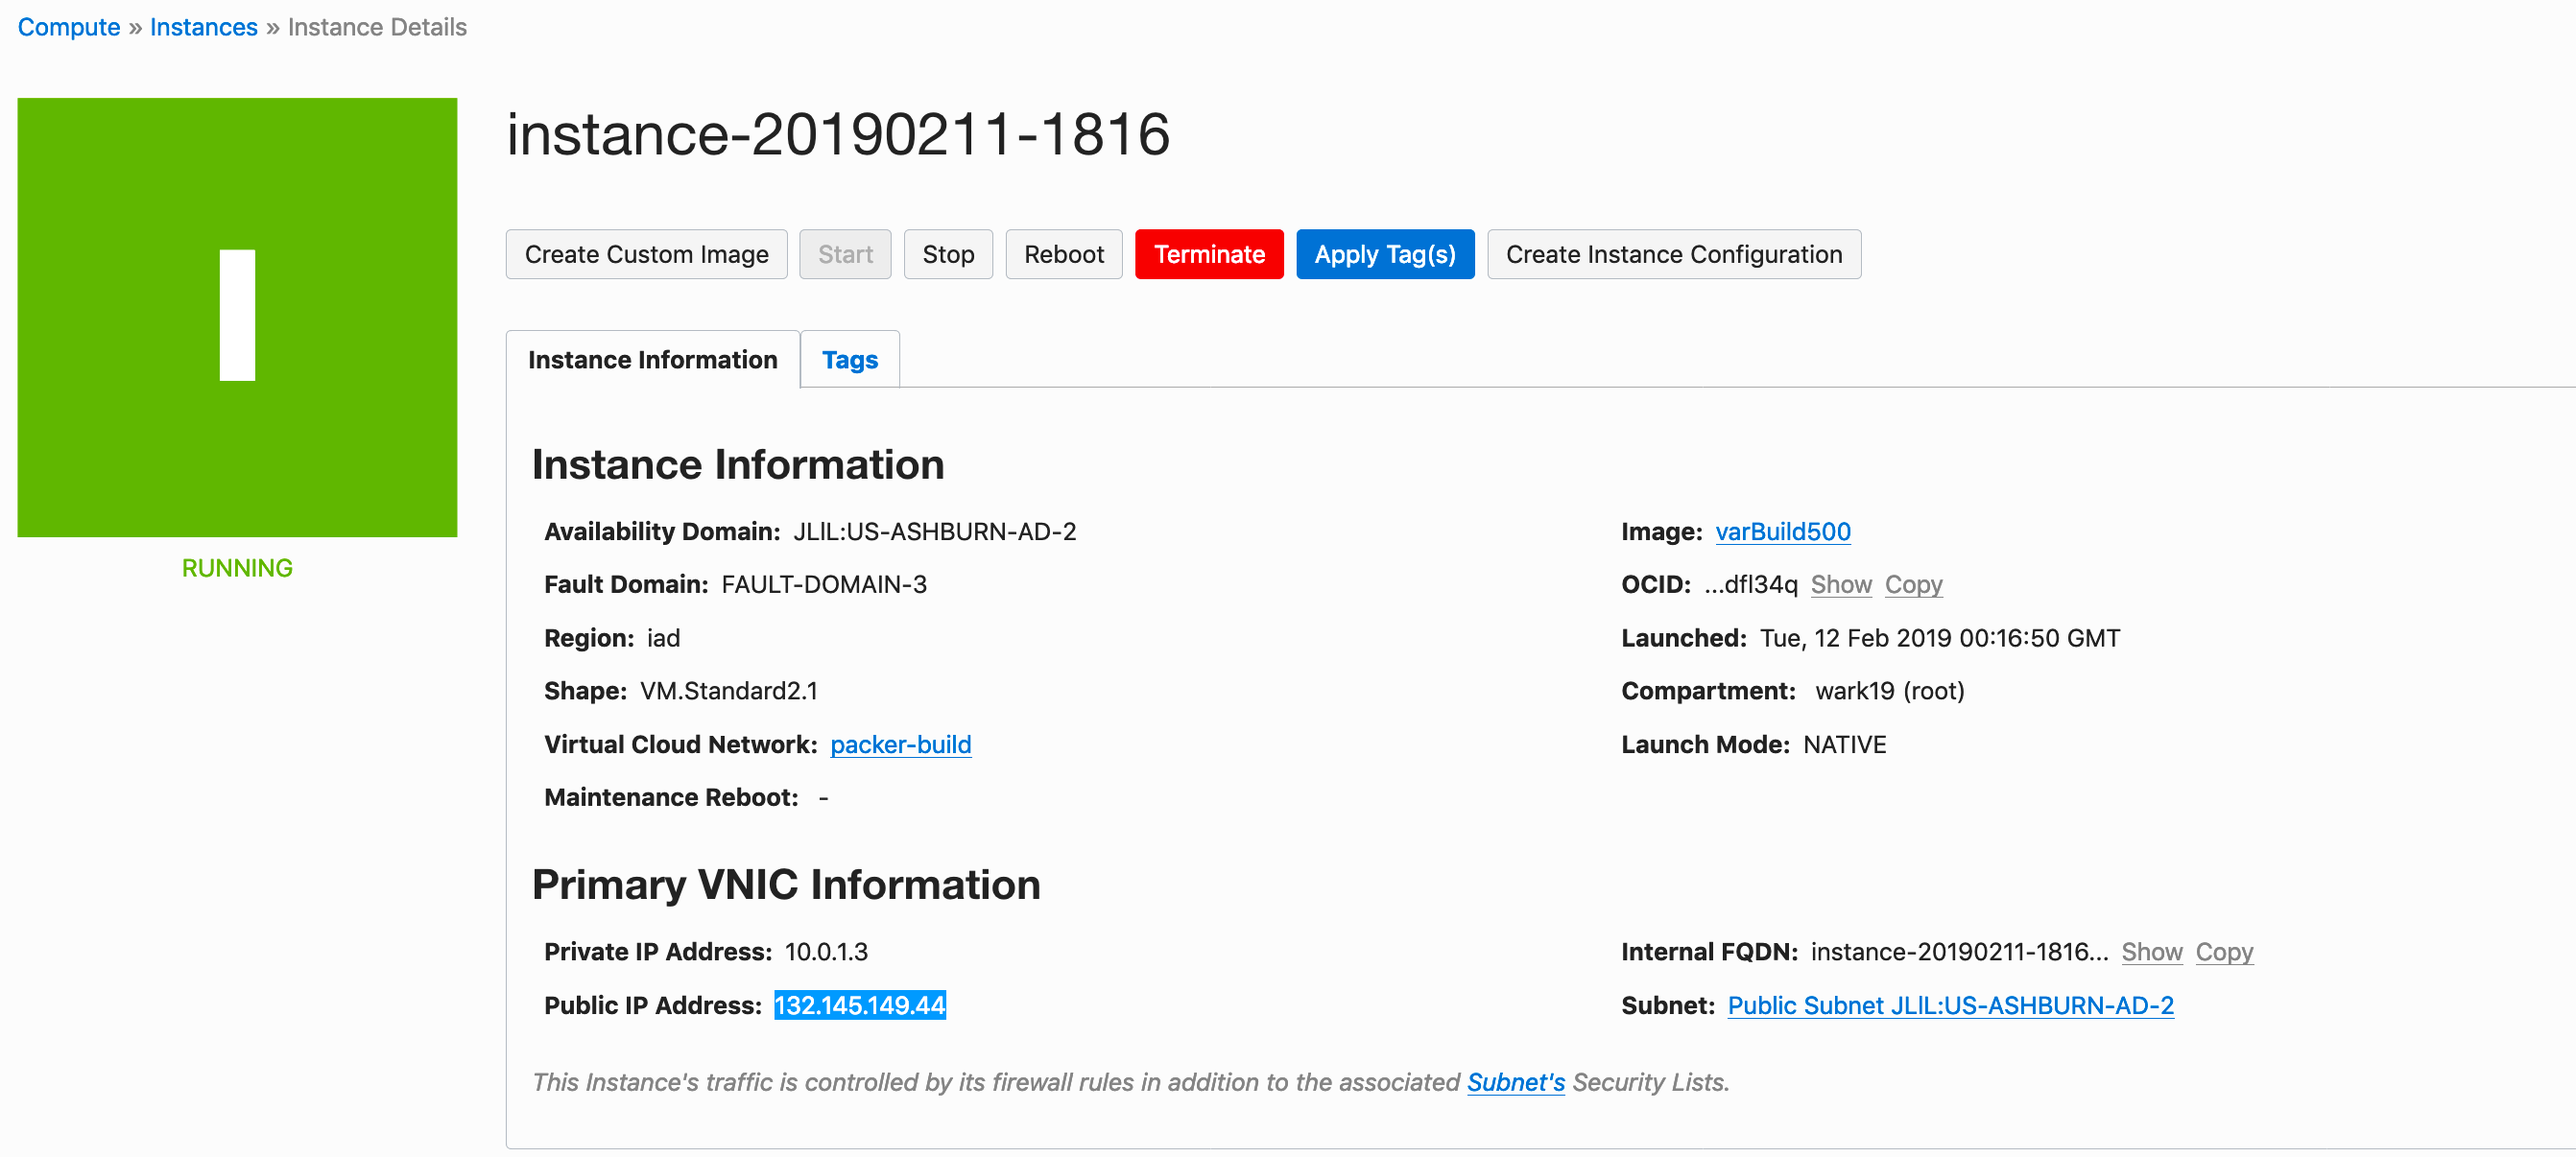
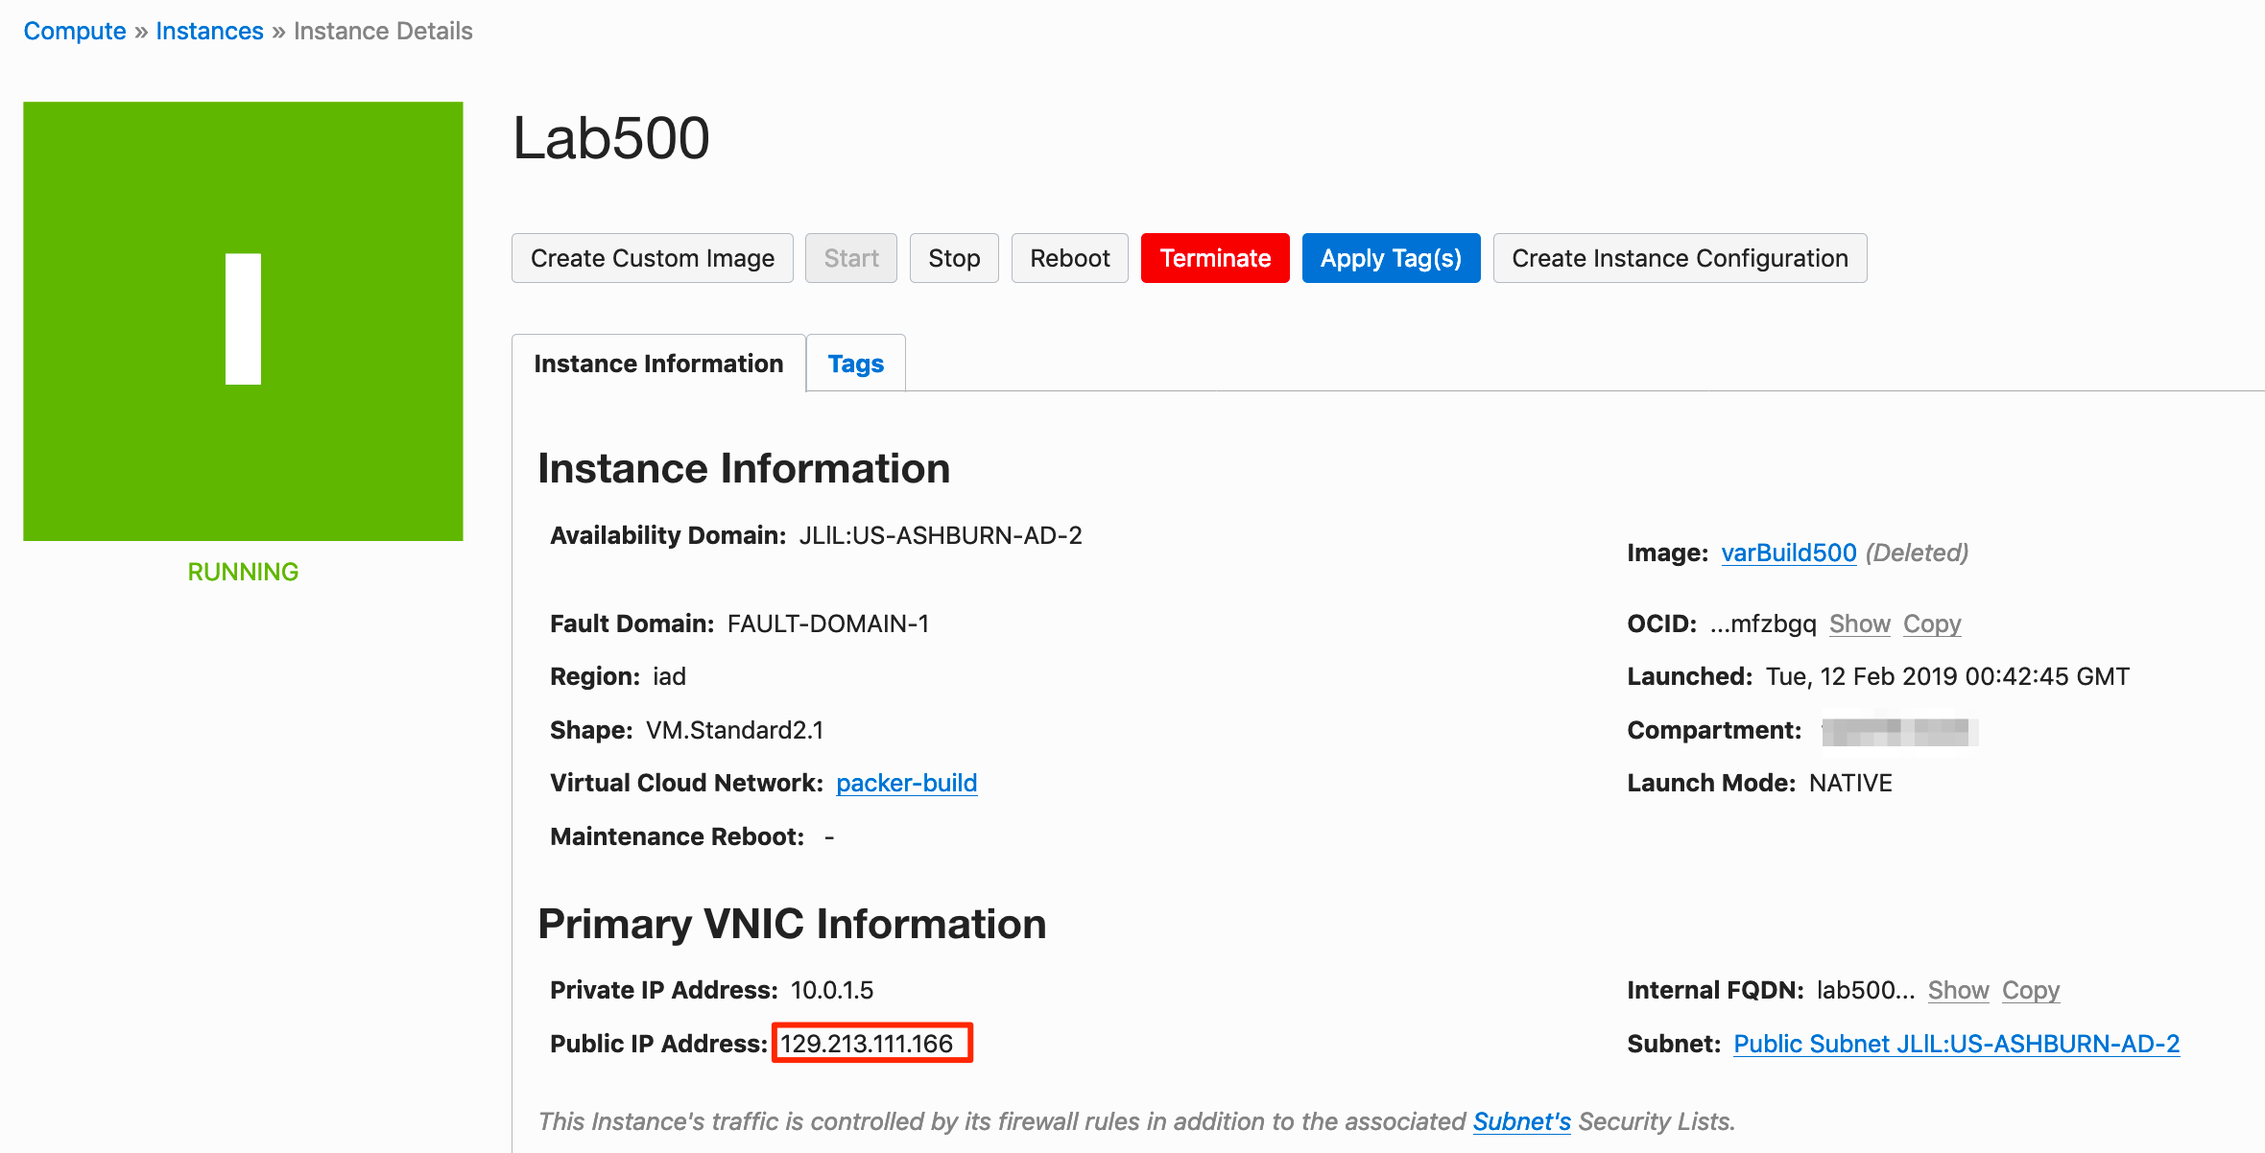
"finished" 500

diff --git a/workshops/packer-oci/Lab500.md b/workshops/packer-oci/Lab500.md
@@ -34,92 +34,83 @@ more varBuild500.json
 packer validate -var-file=<yourTenantName>.json  varBuild500.json
 ```
 
-  ![](images/Lab500/.png)
+  ![](images/Lab500/2.1.png)
 
 ### **STEP 3**: Run Packer Build
-
 
 ```
 packer build -var-file=<yourTenant>.json  varBuild500.json
 ```
-  ![](images/Lab500/1.png)
+- You can see the build process start running:
 
-You will also see the file upload process take place.
+   ![](images/Lab500/5.png)
 
-  ![](images/Lab500/10.png)
+- You will also see the file upload process take place.
+  
+   ![](images/Lab500/10.png)
  
 ### **STEP 4**: Launch an Instance of your Custom Image
 
 - Navigate to back to your browser's OCI Console to see your custom image.
 
 - Using the elisipse to the right of the image creation time, select "Create Instance" 
- ![](images/Lab400/11.png)
 
-- Select a name for the image and place it in Availability Domain 2 
-  ![](images/Lab400/15.png)
+  ![](images/Lab500/11.png)
 
-- Paste or choose your public key file, perhaps choosing it if you pasted it last time.
+- Select a name for the image (Lab500) and place it in Availability Domain 2 
+
+  ![](images/Lab500/14.png)
+
+- Paste or choose your public key file.
 
   ![](images/Lab400/13.png)
 
 - Double check the compartment, VCN and subnet  
 
-  ![](images/Lab400/14.png)
+  ![](images/Lab500/15.png)
 
 - Select Create
 
-  ![](images/Lab400/16.png)
-
+  
 You will see in the "Provisioning", state for a couple of mins as we create the boot volume and instantiate the image.  
 
 - Note the public IP address of your instance, you will connect to this in the next step.
 
-  ![](images/Lab400/17.png)
+  ![](images/Lab500/12.png)
 
 ### **STEP 5**: Connect to Custom Instance
 
-- Using the IP address, ssh to your image in a terminal window (Mac/Linux) or with Putty(Windows)
-```
-ssh -i packerkey opc@129.213.100.199
-```
-- accept the addition of your machine to the instance's "known_hosts" by typing "yes"
-![](images/Lab400/18.png)
+- Using the IP address, Connect using VNC to the server installed on port 5910.  You can use the finder built-in (Mac/Linux) or with Real VNC Viewer(Windows)
 
-- Start my checking the ImageID we wrote to track versions.  We should see varBuild400 :
+  ![](images/Lab500/13.png)
+
+- You should get the VNC Login Window, enter the password you configured in Lab 200
+
+![](images/Lab500/16.png)
+
+- Again, we will start by checking the ImageID we created to track versions.  We should see "varBuild500":
+
+  - Launch a terminal window:
 
 ```
 more .ImageID
 ```
 
-![](images/Lab400/20.png)
+  ![](images/Lab500/20.png)
 
-Good, so let's review some of our handywork
-
-```
-git status
-docker version
-```
-![](images/Lab400/21.png)
-
-We can see that docker is NOT enabled (our build file didn't enable it).  Let's see what it takes to enable in this image and we'll make certain to add that in the next build file for Lab 500
-
-Since Docker is a service that can best be started by the operating system, we want to add that to the system's startup.  Since this is CentOS 7 (vs versions <6 with used init.d), it makes use of systemd controled by "systemctl" commands.
-
-```
-sudo systemctl enable docker
-```
-
-![](images/Lab400/22.png)
-
-That will enable it NEXT time it runs, but doesnt start it.
-
-```
-sudo systemctl start docker
-sudo docker version
-```
-
-![](images/Lab400/24.png)
+ 
 
 We can see that docker is starting normally, so our enabled service should work in the completed image.
+
+The are WAY more topics than we can cover in a single lab. Here are some pointers to resources than can help you learn more.
+
+ Hints:
+  - Always protect your keys and OCIDs as they can be used, if stolen by bad-actors, to use resources or attempt to steal data.
+
+  - create variables.json for specific environments (tenants, compartments or subnets) files which can be shared across builds.
+  
+  - Start small and build up in complexity.
+
+  - Use a JSON lint-like format checker. like: https://jsonlint.com/ or an IDE editor plug-in.
 
 **You are ready to proceed to [Lab 500](Lab500.md)**
